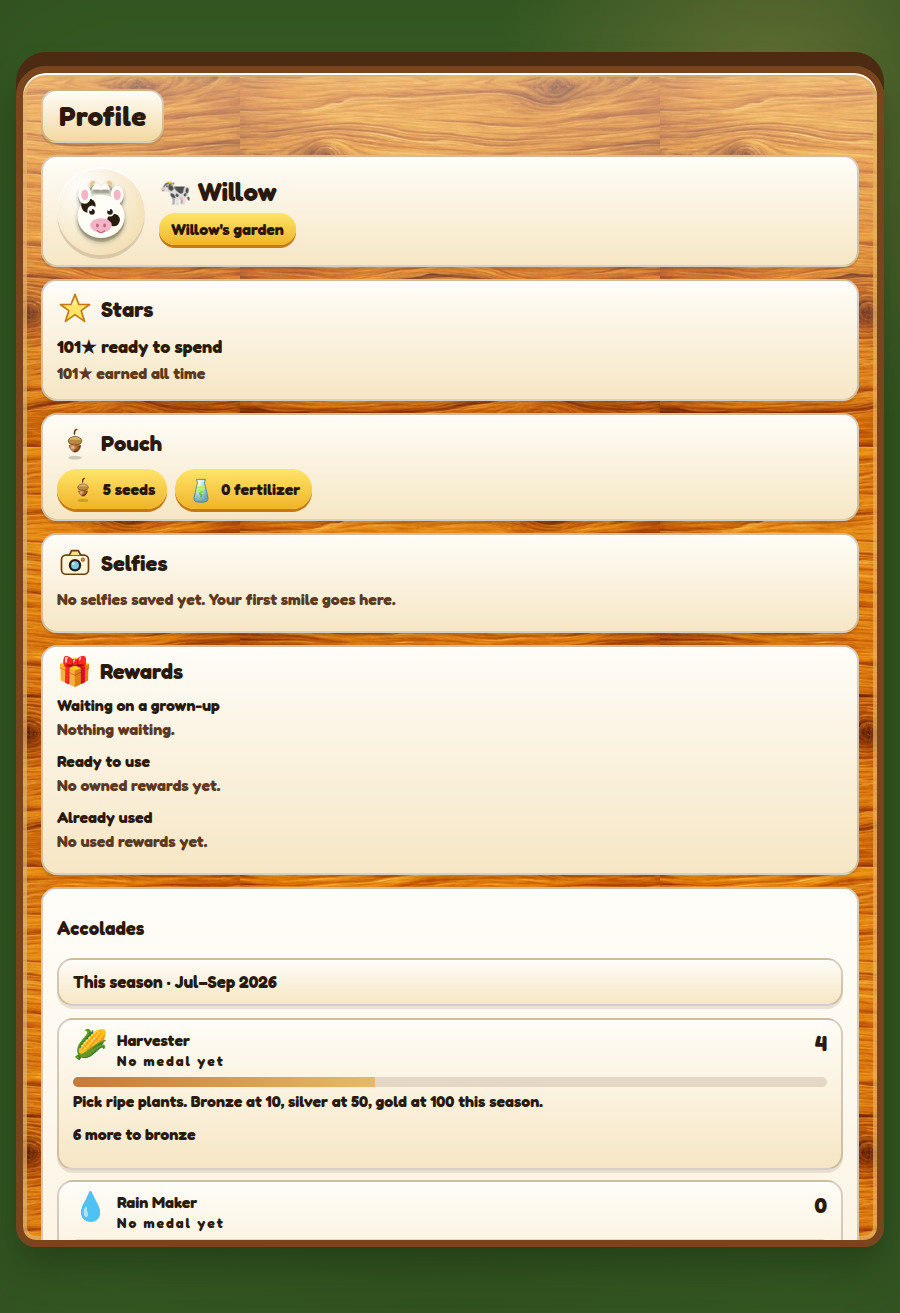
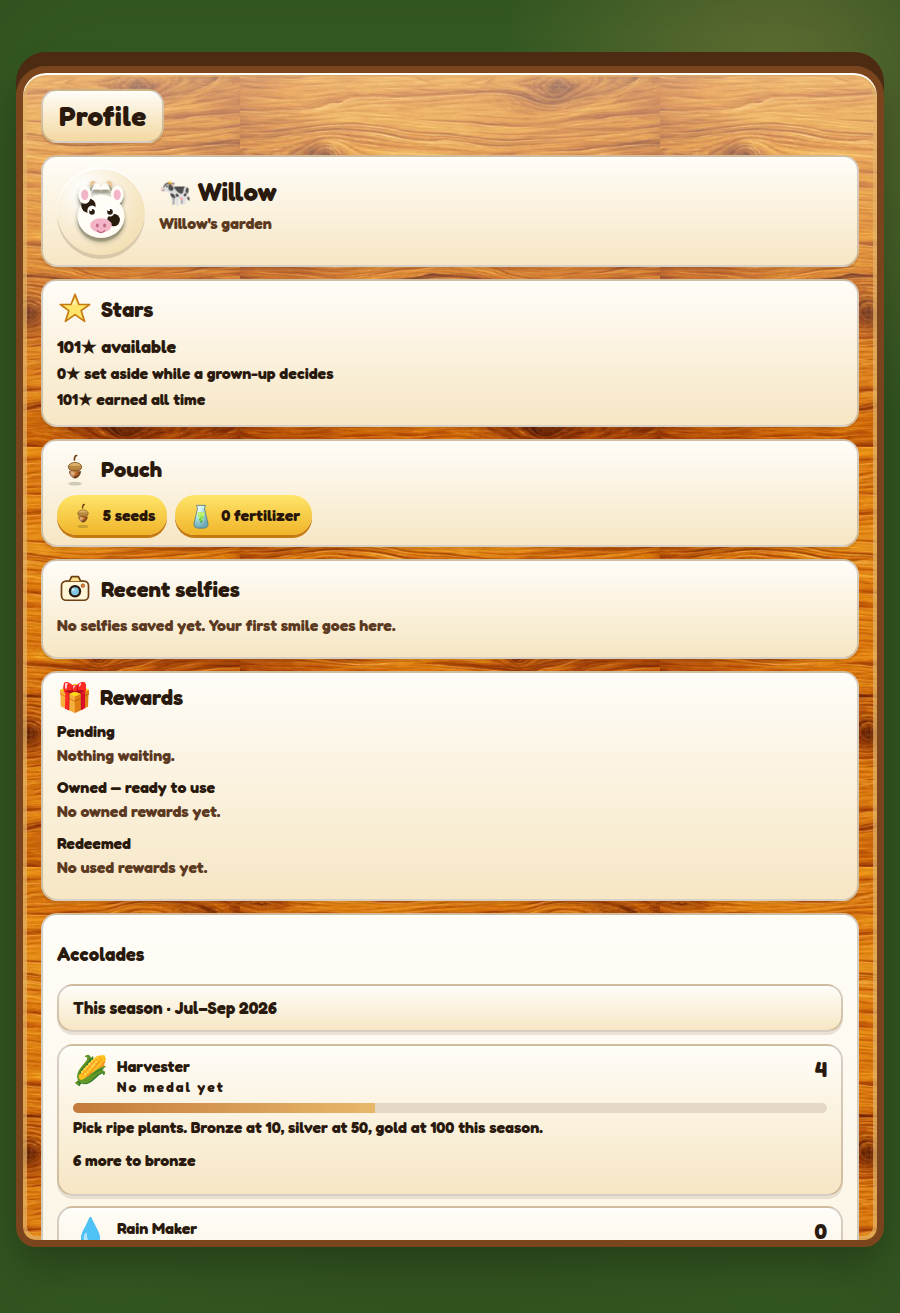
Keep Profile as history overview, not the Farm Store.
Garden entry is the name/mascot plaque plus a Profile button next to
badges. The sheet always shows available / held / lifetime stars, pouch,
recent selfies, Pending/Owned/Redeemed, and accolades. Shop checkout
stays on the farm building.

Changed region(s): [[0.0311, 0.2498, 0.9644, 0.968], [0.1556, 0.1561, 0.3422, 0.1874]]

diff --git a/apps/player/src/components/ProfileSheet.tsx b/apps/player/src/components/ProfileSheet.tsx
@@ -101,7 +101,7 @@ export default function ProfileSheet({
               <h3>
                 {MASCOT_EMOJI[profile.player.mascot]} {profile.player.name}
               </h3>
-              <span className="profile-chip">{profile.player.garden}</span>
+              <p className="profile-garden-label">{profile.player.garden}</p>
             </div>
           </div>
 
@@ -112,15 +112,13 @@ export default function ProfileSheet({
             </header>
             <div className="profile-wallet">
               <p className="profile-stat">
-                <strong>{profile.wallet.availableStars}★</strong> ready to spend
+                <strong>{profile.wallet.availableStars}★</strong> available
               </p>
-              {profile.wallet.heldStars > 0 && (
-                <p className="muted">
-                  {profile.wallet.heldStars}★ set aside while a grown-up decides
-                </p>
-              )}
-              <p className="muted">
-                {profile.wallet.lifetimeEarned}★ earned all time
+              <p>
+                <strong>{profile.wallet.heldStars}★</strong> set aside while a grown-up decides
+              </p>
+              <p>
+                <strong>{profile.wallet.lifetimeEarned}★</strong> earned all time
                 {profile.wallet.lifetimeSpent > 0 ? ` · ${profile.wallet.lifetimeSpent}★ spent on rewards` : ""}
               </p>
             </div>
@@ -144,7 +142,7 @@ export default function ProfileSheet({
           <section className="profile-card parchment">
             <header className="profile-card-head">
               <CameraIcon className="profile-card-icon" />
-              <h3>Selfies</h3>
+              <h3>Recent selfies</h3>
             </header>
             {profile.selfies.length === 0 && (
               <p className="profile-empty">No selfies saved yet. Your first smile goes here.</p>
@@ -172,17 +170,17 @@ export default function ProfileSheet({
               </span>
               <h3>Rewards</h3>
             </header>
-            <h4>Waiting on a grown-up</h4>
+            <h4>Pending</h4>
             {profile.rewards.pending.length === 0 && <p className="profile-empty">Nothing waiting.</p>}
             {profile.rewards.pending.map((row) => (
               <RewardRow key={row.id} row={row} />
             ))}
-            <h4>Ready to use</h4>
+            <h4>Owned — ready to use</h4>
             {profile.rewards.owned.length === 0 && <p className="profile-empty">No owned rewards yet.</p>}
             {profile.rewards.owned.map((row) => (
               <RewardRow key={row.id} row={row} stamp={formatWhen(row.approvedAt ?? row.resolvedAt)} />
             ))}
-            <h4>Already used</h4>
+            <h4>Redeemed</h4>
             {profile.rewards.redeemed.length === 0 && <p className="profile-empty">No used rewards yet.</p>}
             {profile.rewards.redeemed.map((row) => (
               <RewardRow
@@ -205,12 +203,10 @@ export default function ProfileSheet({
             </section>
           )}
 
-          {profile.accolades.seasonal.tracks.length > 0 && (
-            <section className="profile-card parchment">
-              <h3>Accolades</h3>
-              <AccoladeLedgerBody ledger={profile.accolades} />
-            </section>
-          )}
+          <section className="profile-card parchment">
+            <h3>Accolades</h3>
+            <AccoladeLedgerBody ledger={profile.accolades} />
+          </section>
         </>
       )}
       <div className="sheet-actions">

diff --git a/apps/player/src/screens/Garden.tsx b/apps/player/src/screens/Garden.tsx
@@ -5,6 +5,7 @@ import { api, type GardenPlayer, type HarvestReward } from "../api";
 import { AcornArt, BackArrow, FertilizerBeaker, MascotArt, SceneShell, StarIcon } from "../art";
 import HarvestCelebration from "../components/HarvestCelebration";
 import IngredientsSheet from "../components/IngredientsSheet";
+import AccoladePanel from "../components/AccoladePanel";
 import PinPad from "../components/PinPad";
 import PlantPicker from "../components/PlantPicker";
 import PlotSheet from "../components/PlotSheet";
@@ -26,6 +27,7 @@ type Overlay =
   | { type: "plot"; slot: number }
   | { type: "ingredients" }
   | { type: "profile" }
+  | { type: "badges" }
   | null;
 
 export default function Garden() {
@@ -296,6 +298,22 @@ function GardenPlay({
             <FertilizerBeaker />
             <span>+</span>
           </button>
+          <button
+            className="icon-btn profile-btn"
+            type="button"
+            aria-label="Profile"
+            onClick={() => setOverlay({ type: "profile" })}
+          >
+            Profile
+          </button>
+          <button
+            className="icon-btn trophies"
+            type="button"
+            aria-label="Badges"
+            onClick={() => setOverlay({ type: "badges" })}
+          >
+            🏅
+          </button>
         </div>
       </div>
       <div className="garden-tools" role="toolbar" aria-label="Garden tools">
@@ -360,6 +378,7 @@ function GardenPlay({
       {overlay?.type === "profile" && (
         <ProfileSheet preview={kidProfileFromPlayer(player)} onClose={() => setOverlay(null)} />
       )}
+      {overlay?.type === "badges" && <AccoladePanel onClose={() => setOverlay(null)} />}
       {overlay?.type === "ingredients" && (
         <IngredientsSheet
           player={player}

diff --git a/apps/player/src/styles.css b/apps/player/src/styles.css
@@ -50,6 +50,15 @@ button.who.profile-entry {
   cursor: pointer;
 }
 button.who.profile-entry:active { transform: translateY(2px); }
+.icon-btn.profile-btn {
+  width: auto;
+  min-width: 88px;
+  padding: 0 14px;
+  font-size: 16px;
+  font-weight: 800;
+  letter-spacing: 0.02em;
+}
+.icon-btn.trophies { font-size: 26px; }
 
 .scene, .screen, .pin {
   height: 100%;
@@ -793,6 +802,12 @@ button.who.profile-entry:active { transform: translateY(2px); }
 }
 .profile-hero-art .mascot-img { width: 72px; height: 72px; }
 .profile-hero h3 { margin: 0 0 6px; font-size: 26px; font-weight: 900; }
+.profile-garden-label {
+  margin: 0;
+  font-size: 16px;
+  font-weight: 800;
+  color: #5c3a22;
+}
 .profile-card-head {
   display: flex;
   align-items: center;

diff --git a/apps/player/src/components/AccoladePanel.tsx b/apps/player/src/components/AccoladePanel.tsx
@@ -12,7 +12,7 @@ function medalGlyph(medal: string | null) {
 export function AccoladeLedgerBody({ ledger }: { ledger: AccoladeLedger }) {
   return (
     <div className="badge-ledger">
-      <p className="sheet-status badge-season">This season · {ledger.seasonLabel}</p>
+      {ledger.seasonLabel ? <p className="sheet-status badge-season">This season · {ledger.seasonLabel}</p> : null}
       <div className="badge-tracks">
         {ledger.seasonal.tracks.map((track) => (
           <div key={track.slug} className="badge-track parchment">

diff --git a/docs/qa/plant-align/README.md b/docs/qa/plant-align/README.md
@@ -94,7 +94,7 @@ Sparkles used to sit on each garden’s **soil-rect center** whenever *any* plot
 | [`farm-sparkle-finn-before-after.png`](after-fix/farm-sparkle-finn-before-after.png) | Finn crop: center blob → slot 1 + slot 8 |
 | [`farm-sparkle-after.json`](after-fix/farm-sparkle-after.json) | Debug locals: active sparkle == plant local |
 
-Wood dialogs (Profile / selfie / shed / badges) at `/qa/ui?sheet=profile|selfie|shed|badges`. Body copy sits on cream parchment, not raw grain.
+Wood dialogs (Profile / selfie / shed / badges) at `/qa/ui?sheet=profile|selfie|shed|badges`. Body copy sits on cream parchment, not raw grain. Kid **Profile** is history/overview (wallet, pouch, selfies, Pending/Owned/Redeemed, accolades) — not the Farm Store. Store stays on the farm building.
 
 ## Pass bar
 
